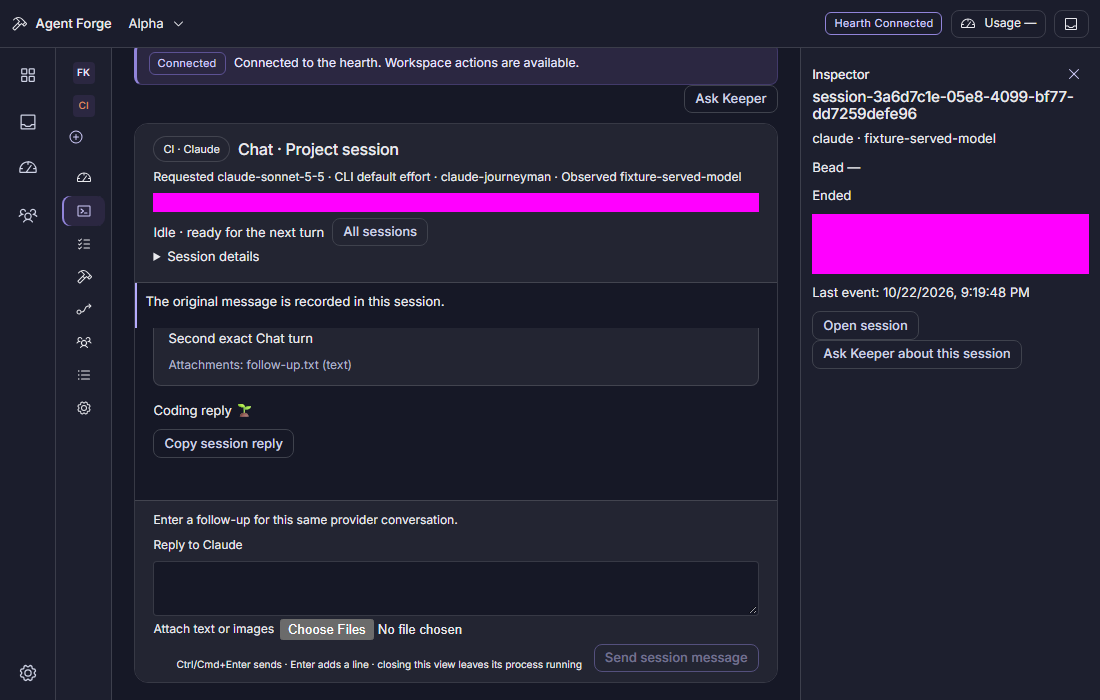
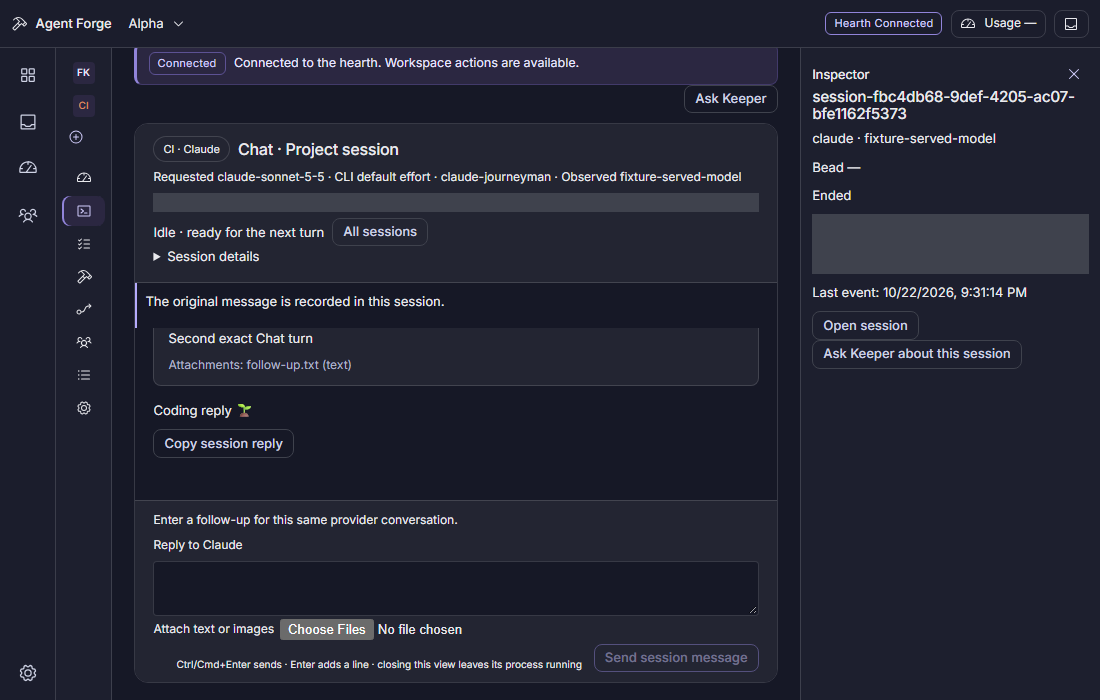
test(desktop): use neutral masks in session review captures
Keep real checkout paths private in the verified1100x700 screenshots without distracting magenta overlays.

Refs: agent-forge-harness-cla5.4.1.3

Changed region(s): [[0.7109, 0.3, 0.9891, 0.42], [0.1236, 0.27, 0.7109, 0.3], [0.7418, 0.12, 0.9891, 0.18]]

diff --git a/tests/desktop-e2e/sessions.spec.ts b/tests/desktop-e2e/sessions.spec.ts
@@ -293,6 +293,7 @@ test("Cancel, templates and checked options start nothing; a lost Start reply cr
   await page.screenshot({
     path: "apps/desktop/docs/screenshots/session-chat.png",
     mask: [page.getByText(created.worktree, { exact: true })],
+    maskColor: "#3f424d",
   });
 });
 
@@ -434,6 +435,7 @@ test("a bead-prefilled Task exposes locked modes, and project drafts and session
   ).toContainText("--max-budget-usd");
   await page.screenshot({
     path: "apps/desktop/docs/screenshots/session-composer.png",
+    maskColor: "#3f424d",
     mask: [
       dialog.getByRole("combobox", { name: "Session repository", exact: true }),
     ],
@@ -443,6 +445,7 @@ test("a bead-prefilled Task exposes locked modes, and project drafts and session
   });
   await page.screenshot({
     path: "apps/desktop/docs/screenshots/session-composer-prompt.png",
+    maskColor: "#3f424d",
     mask: [
       dialog.getByRole("combobox", { name: "Session repository", exact: true }),
     ],
